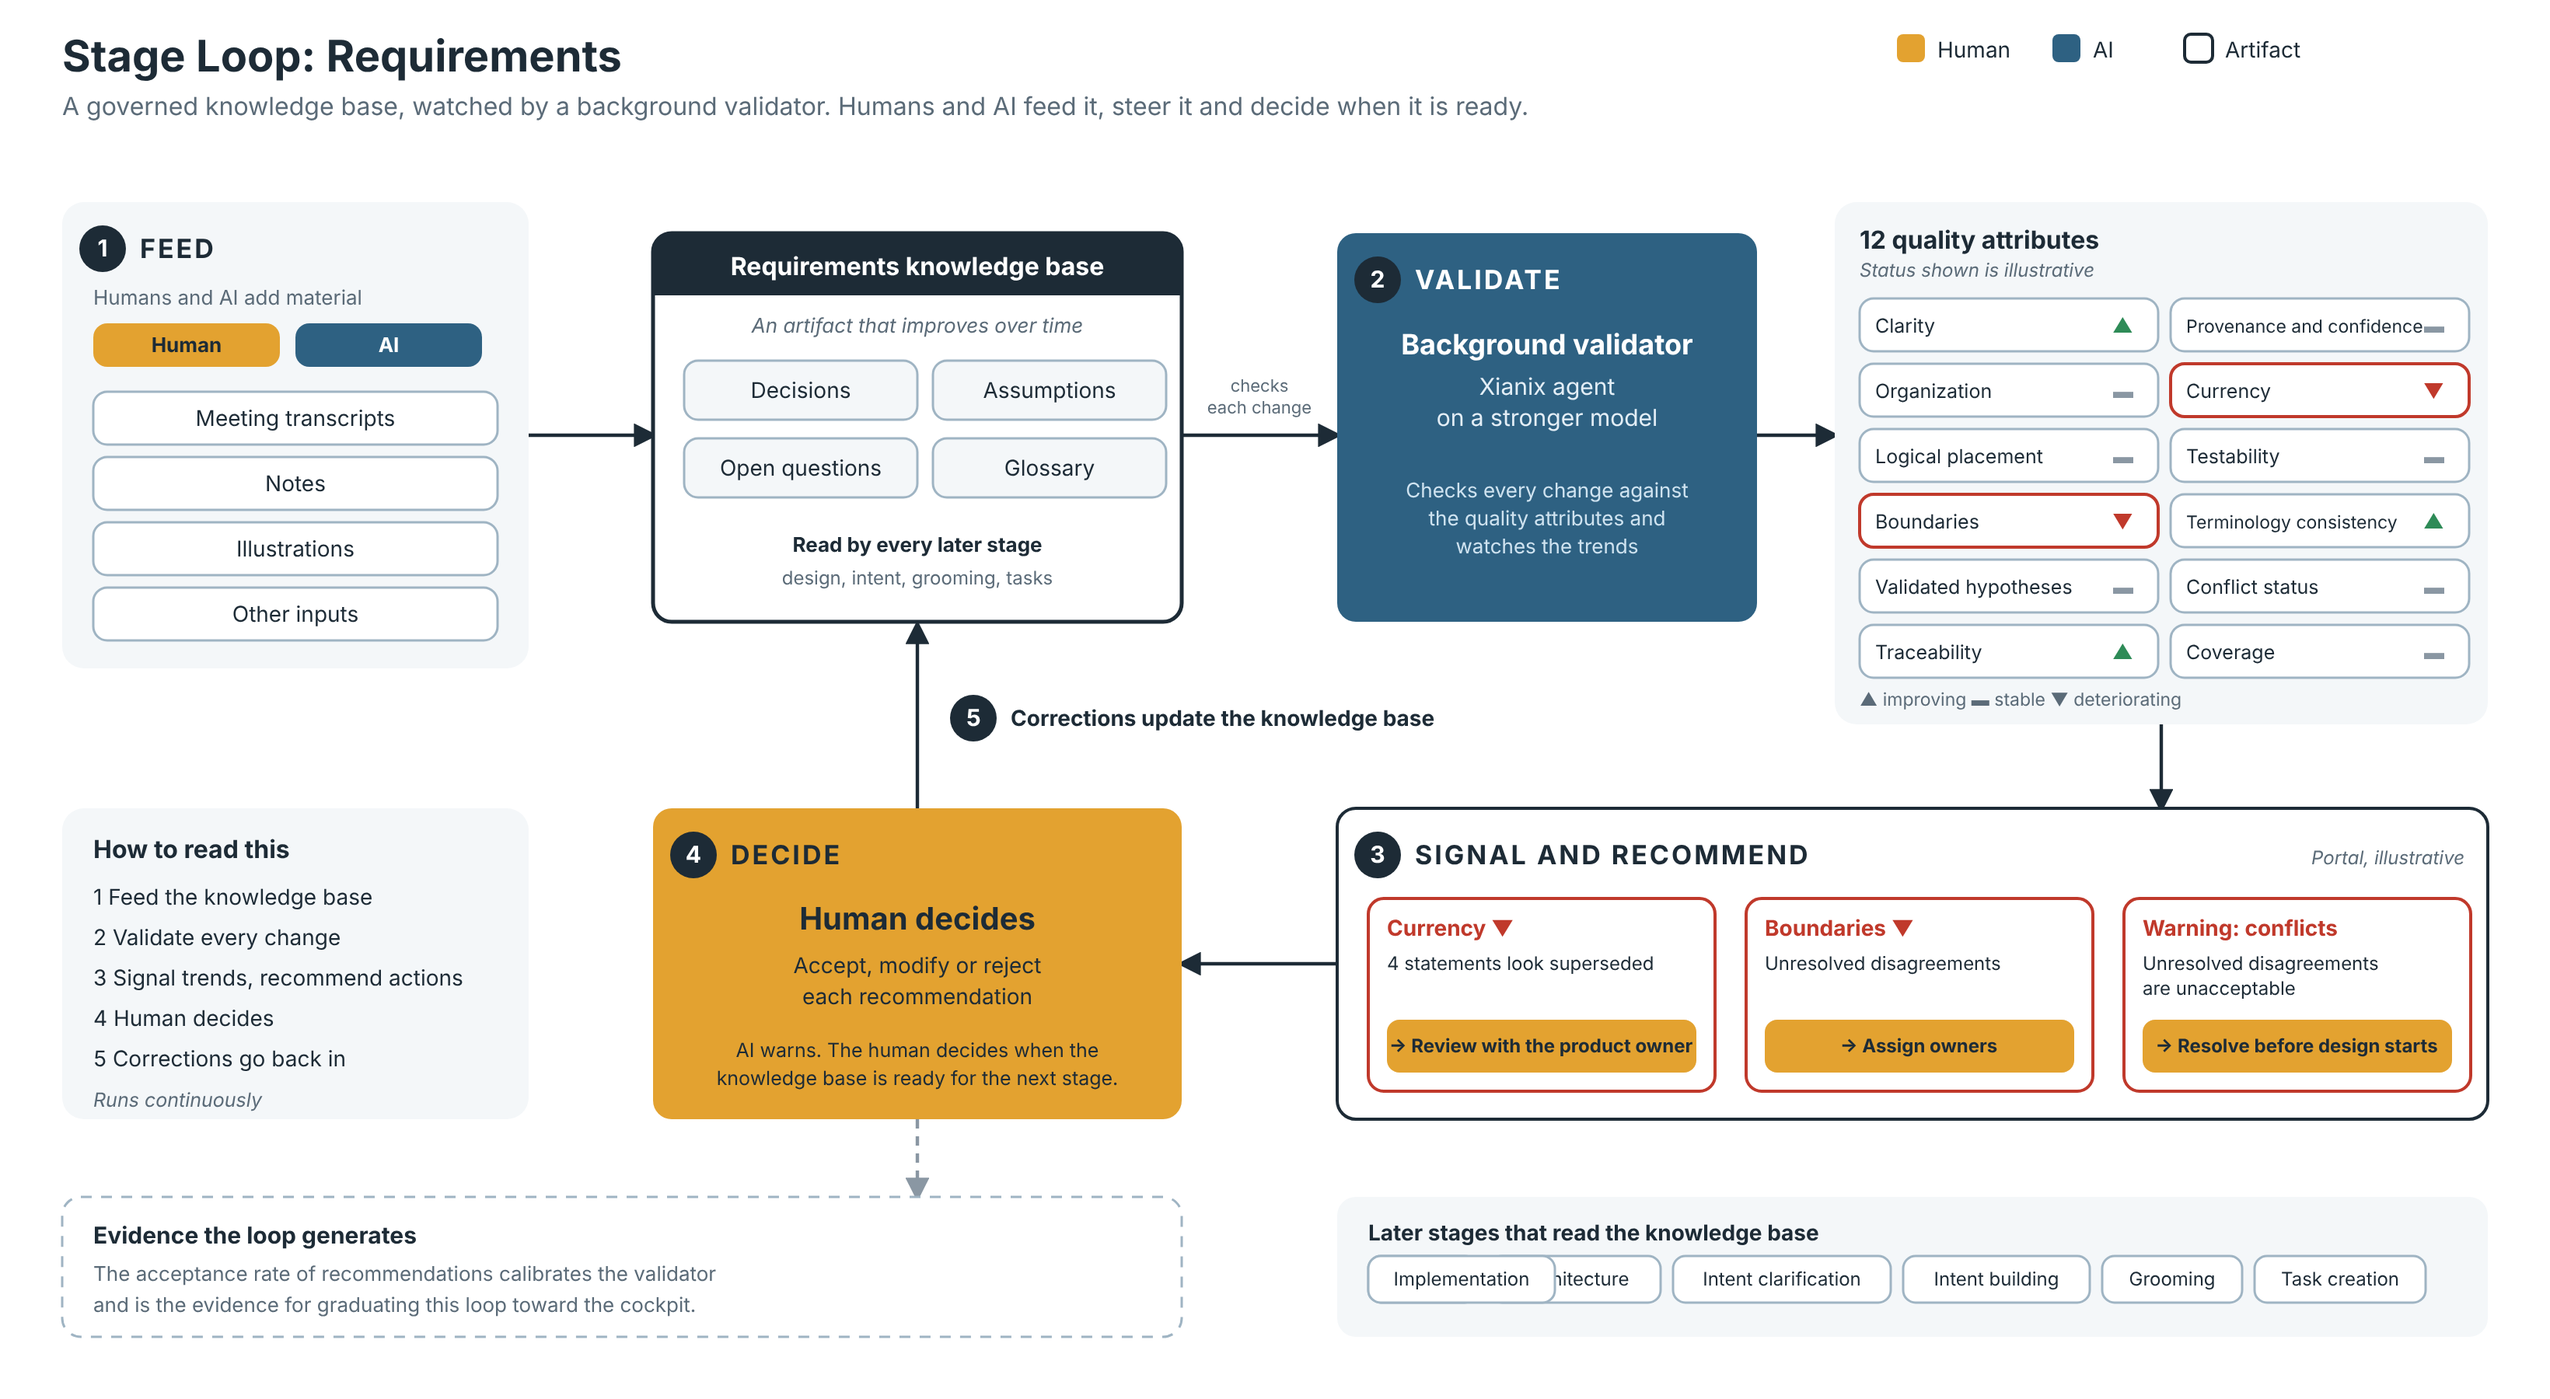
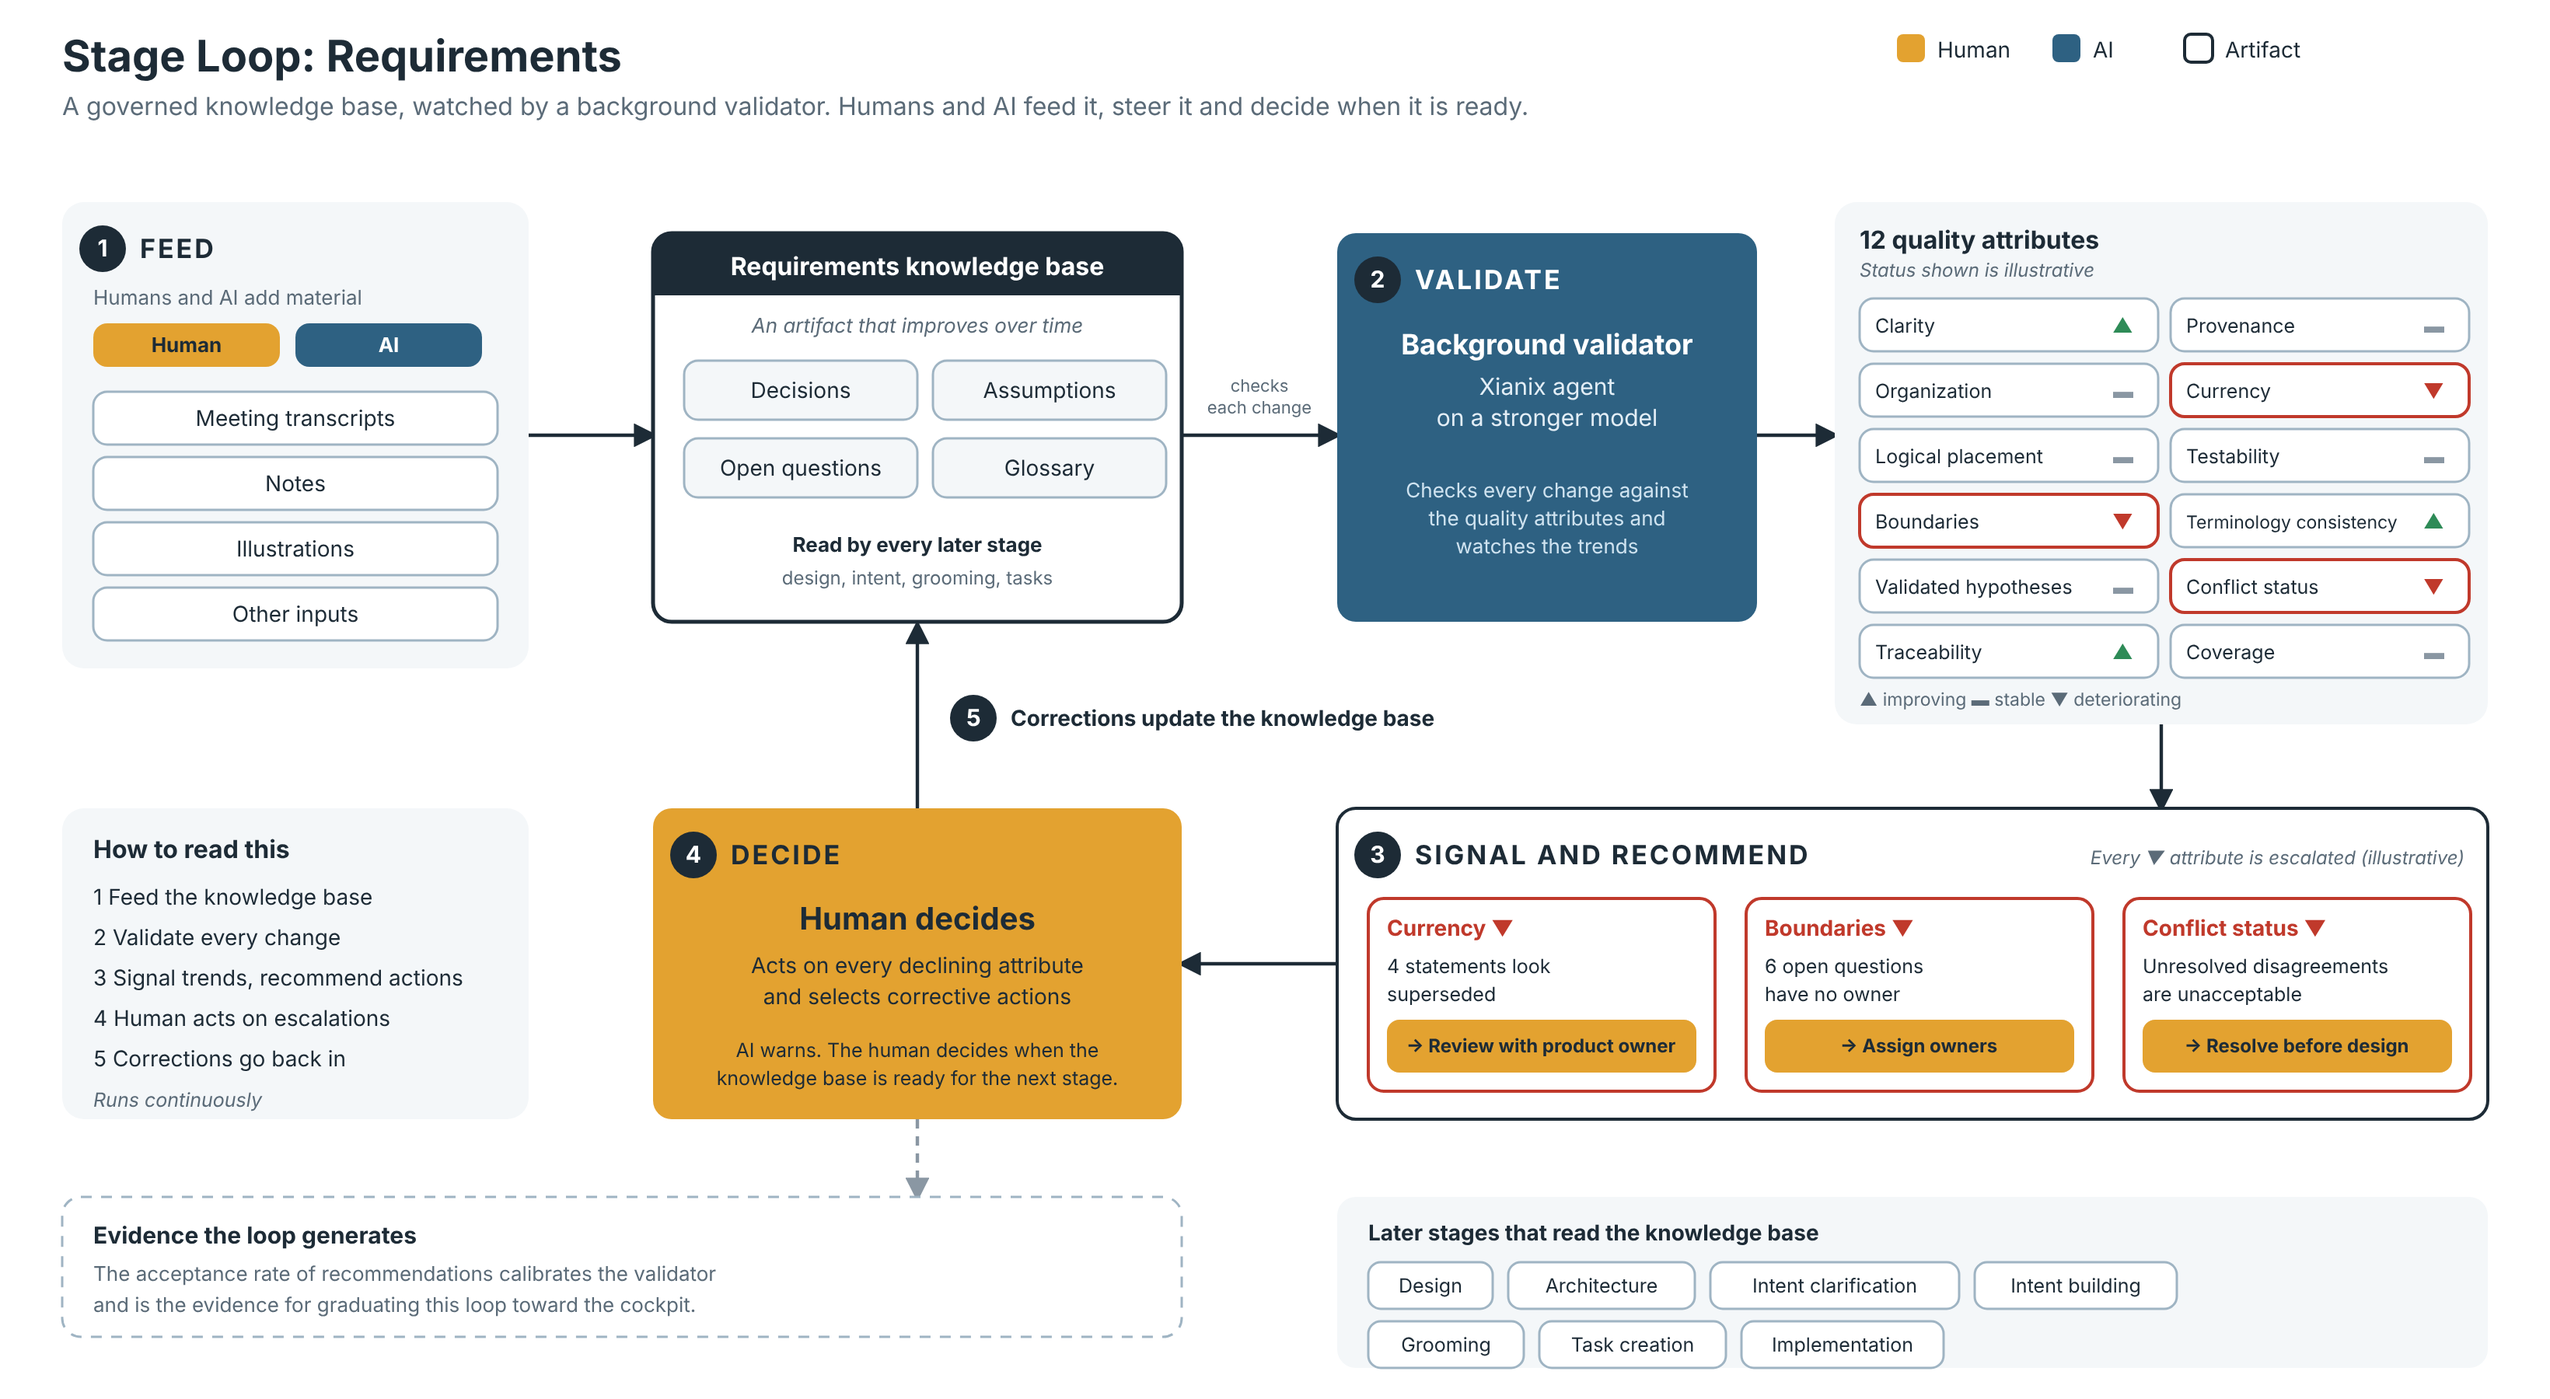
Brainstorm 5

diff --git a/docs/stage-loop-build.md b/docs/stage-loop-build.md
@@ -1,0 +1,83 @@
+# Stage Loop: Build (draft v0.1)
+
+![Stage loop: build](stage-loop-build.png)
+
+*Editable source: [stage-loop-build.svg](stage-loop-build.svg). Status values and examples in the diagram are illustrative.*
+
+The third stage loop of the 99x Software Factory process evolution model (see [process-evolution-model.md](process-evolution-model.md)). It follows the same pattern as the [requirements](stage-loop-requirements.md) and [design](stage-loop-design.md) stage loops. This is the loop where the code is created.
+
+Items marked **(proposed)** were suggested during the brainstorm and are not yet confirmed.
+
+## 1. The pattern
+
+> A governed artifact + quality attributes + a background validator + trend signals + recommended actions, with a human who decides.
+
+| Element | Build stage loop |
+|---|---|
+| **Governed artifact** | The codebase, including unit tests |
+| **Feeders (human and AI)** | Tasks and intent from the design stage, interface contracts, the existing codebase and coding standards. Humans and AI coding agents write the code. |
+| **Quality attributes** | Section 2 |
+| **Background validator** | A Xianix agent that runs deterministic tools (linters, static analysis, test runners, mutation testing) and uses a stronger model to judge the attributes that tools cannot measure |
+| **Signal** | Per-attribute trend plus warnings for unacceptable attributes |
+| **Recommended actions** | When an attribute deteriorates, the tool shows it and recommends actions to correct course |
+| **Human** | Owns the loop. Handles exceptions (failing unit tests and declining quality attributes), then selects corrective actions. Humans are not expected to read code at the level they did in the past, so they supervise through the signals and change summaries. |
+
+Unit testing lives inside the build loop. (Integration, system and acceptance testing belong to the test stage loop, still to be specced.)
+
+## 2. Quality attributes of AI-generated code
+
+The loop checks that the intents are delivered and that the outcome is sound. It does not dictate how the AI writes the code. For this reason, code simplicity was considered and removed: it conflicted with other important attributes (such as runtime complexity), and as long as the intents are delivered there is no need to interfere with how the code is generated.
+
+Check: **M** = mechanical, **H** = hybrid, **J** = needs human judgment.
+
+### Defined in the original brief
+
+| # | Attribute | What it means | Check |
+|---|---|---|---|
+| 1 | **Coding standards adherence** | The code follows the agreed coding standards. Kept as a cheap mechanical check for consistency and tooling. | M |
+| 2 | **Runtime complexity** | Functions choose the less complex path at runtime (for example O(n) instead of O(n²)), including the choice of data structures and algorithms behind it | H |
+| 3 | **Testability** | The code is easy to test | H |
+
+Notes:
+- #2 is about runtime behaviour. It can be checked by static analysis of loops and nesting, and by running functions on growing input sizes. It should be judged against the expected data scale and the performance budget from the design.
+- "Data structures and algorithms" was a separate attribute and has been folded into #2, since the structure and algorithm chosen determine the runtime complexity and the outcome is what matters.
+
+### Added in the brainstorm and agreed
+
+| # | Attribute | What it means | Check |
+|---|---|---|---|
+| 4 | **Intent conformance** | The code does what the task and design say, with no unrequested features and none missing | H |
+| 5 | **Change explainability** | Each change comes with a summary in intent terms of what changed and why, so a human can assess it without reading code | H |
+| 6 | **Test adequacy** | Tests pass and cover the change, and a mutation score shows they detect faults | M |
+| 7 | **Security** | No vulnerabilities, secrets or unsafe patterns | M |
+| 8 | **Dependency and supply-chain hygiene** | No hallucinated or nonexistent packages, licences checked, no vulnerable or abandoned dependencies, versions pinned | M |
+| 9 | **Duplication and reuse** | New code reuses what exists instead of duplicating it | M |
+| 10 | **Architectural conformance** | The code respects the layers, boundaries and interface contracts from the design loop | M/H |
+| 11 | **Robustness** | Errors are handled and not swallowed, inputs are validated, failure modes from the design are covered | H |
+| 12 | **Change risk** | Size of the diff, files touched and churn, so large AI changes are visible | M |
+| 13 | **Observability readiness** | Logs, metrics and traces exist as the design requires | M/H |
+| 14 | **Provenance and IP** | Which agent, model and spec version produced the code, and that licence and IP checks passed | M |
+| 15 | **Navigability for AI** | Naming, modularity and intent comments that let future agents work on the code safely | H |
+
+Testability (#3) is a property of the code. Test adequacy (#6) is whether the tests are worth anything. Both are needed, because AI-written tests can pass while proving nothing.
+
+## 3. Signal design
+
+Same as the other stage loops: the portal shows per-attribute trends, escalates every declining attribute to the human, with higher severity for unacceptable levels, and recommends corrective actions. Humans decide, and ownership stays with humans. Humans work by exception. Exceptions are failing unit tests and declining quality attributes. Humans handle them and select corrective actions, instead of approving each change. The validator's quality is tracked by the acceptance rate of its recommendations.
+
+Most of this loop can be measured by tools, which contrasts with the design loop. The validator should orchestrate deterministic tools and reserve the stronger model for the judgment attributes (intent conformance, architecture fit). A model should not be asked to judge what a tool can measure.
+
+Intent conformance and change explainability replace what code review used to give humans, so they should be prominent in the portal.
+
+## 4. Consumers
+
+The codebase is read by the later stages: test, release and operate. Each change should record the task, design and knowledge-base versions it was built from (see the traceability proposals in the [requirements spec](stage-loop-requirements.md)).
+
+## 5. Open questions
+
+- **(proposed)** What counts as a decline should be defined by a tolerance and a time window per attribute, so that small fluctuations across 15 attributes do not flood the human. Escalations should be grouped and ranked by severity.
+- The by-exception model applies to every stage loop (see the process evolution model). Working by exception is close to the cockpit variant, so how do the stage loops differ from the cockpit once all of them escalate by exception?
+- What is "unacceptable" for each attribute, and who sets it per client?
+- Tooling differs per technology stack. How does the validator get the right tools per language and framework, given the diverse stacks 99x teams work with?
+- How does this connect to the existing AI-DLC workflows in xianix-team/ai-dlc-base?
+- Where exactly is the boundary with the test stage loop (unit tests in build, everything else in test)?

diff --git a/docs/stage-loop-requirements.md b/docs/stage-loop-requirements.md
@@ -18,16 +18,16 @@ Items marked **(proposed)** were suggested during the brainstorm and are not yet
 | **Feeders (human and AI)** | Meeting transcripts, notes, illustrations and other inputs added by the team and by AI |
 | **Quality attributes** | Section 3 |
 | **Background validator** | A Xianix agent running on a stronger model. It checks every growth step of the knowledge base against the quality attributes. |
-| **Signal** | Per-attribute trend (improving, stable, deteriorating) plus warnings for unacceptable attributes |
+| **Signal** | Per-attribute trend (improving, stable, declining). Every declining attribute is escalated to the human. |
 | **Recommended actions** | When an attribute deteriorates, the tool shows it and recommends actions to correct course |
-| **Human** | Decides what to do and when the knowledge base is ready for the next stage. AI warns but does not decide. |
+| **Human** | Acts on every escalation by selecting a corrective action, and decides when the knowledge base is ready for the next stage. AI warns but does not decide. |
 
 ## 2. How the loop runs
 
 1. Humans and AI add material to the knowledge base.
 2. The validator checks the change against the quality attributes.
 3. The portal shows attribute trends. If any attribute is deteriorating, it says so and recommends corrective actions.
-4. The human acts (accepts, modifies or rejects each recommendation).
+4. The human acts on every escalation by selecting a corrective action.
 5. Repeat continuously.
 
 Whether recommendations are accepted is recorded. The acceptance rate is the evidence for graduating this loop toward the cockpit (see the process evolution model) and for calibrating the validator.
@@ -53,9 +53,10 @@ Note: 1 and 2 overlap, and 4 is close to 12. Revisit if the validator cannot tel
 ## 4. Signal design
 
 - **Trend over score.** The loop alerts on direction (for example "organization is deteriorating") and avoids false precision in absolute scores. This is deliberate: some attributes are mechanically checkable (contradictions, open ends) while others are judgment calls (clarity).
-- **Warnings for unacceptable levels.** The validator warns the human when an attribute reaches an unacceptable level.
+- **Escalation on any decline.** Every attribute that is going down is escalated to the human. This applies to all stage loops. Unacceptable levels carry a higher severity.
 - **The human decides.** Warnings do not block the work or declare the stage complete. Readiness for the next stage is a human decision. Ownership of this loop, as for every stage loop, stays with humans.
-- **(proposed)** What counts as "unacceptable" should be defined per attribute, and probably per client.
+- **(proposed)** What counts as "unacceptable" (severity) should be defined per attribute, and probably per client.
+- **(proposed)** What counts as a decline should be defined by a tolerance and a time window per attribute, so that small fluctuations do not flood the human. Escalations should be grouped and ranked by severity.
 
 ## 5. The validator
 

diff --git a/docs/process-evolution-model.md b/docs/process-evolution-model.md
@@ -29,6 +29,7 @@ The platform shows information about what the AI layer is doing, then offers rec
 ### Stage loop specs
 - [Requirements stage loop](stage-loop-requirements.md)
 - [Design stage loop](stage-loop-design.md)
+- [Build stage loop](stage-loop-build.md)
 
 ## 3. Quality attributes (the four pillars)
 
@@ -50,6 +51,8 @@ The four pillars stay common to every variant. They are the quality attributes o
 4. The capability of the available tools (this one changes over time without client action)
 
 **Ownership.** Every stage loop is owned by humans, at every variant and at every level of AI autonomy. AI validates, warns and recommends. Humans decide.
+
+**Escalation.** In every stage loop, any quality attribute that is going down is escalated to the human, not only those that reach an unacceptable level. In the build loop, failing unit tests are escalated too. The human selects the corrective action.
 
 **Graduation** is decided by evidence. A loop moves up when humans accept its recommended actions at a high rate, sustained over time. Loops graduate individually, so a project can have some stages at the cockpit level while others are still at variant 2. Stage loops are chained along the coverage axis, so a downstream loop depends on the quality of the artifacts upstream loops produce.
 

diff --git a/docs/stage-loop-design.md b/docs/stage-loop-design.md
@@ -57,7 +57,7 @@ Check: **M** = mechanical, **H** = hybrid, **J** = needs human judgment.
 
 ## 3. Signal design
 
-Same as the requirements loop: the portal shows per-attribute trends, warns when an attribute reaches an unacceptable level, and recommends corrective actions. The human decides what to do and when the design is ready for the next stage. The validator is a Xianix agent on a stronger model, and its quality is tracked by the acceptance rate of its recommendations.
+Same as the requirements loop: the portal shows per-attribute trends, escalates every declining attribute to the human who owns it, with higher severity for unacceptable levels, and recommends corrective actions. The human decides what to do and when the design is ready for the next stage. The validator is a Xianix agent on a stronger model, and its quality is tracked by the acceptance rate of its recommendations.
 
 The validator can reliably check structure (traceability, consistency, coverage of quality requirements, recorded decisions). It cannot reliably judge whether an architecture is good. The interface should show which signals are mechanical and which are advisory.
 
